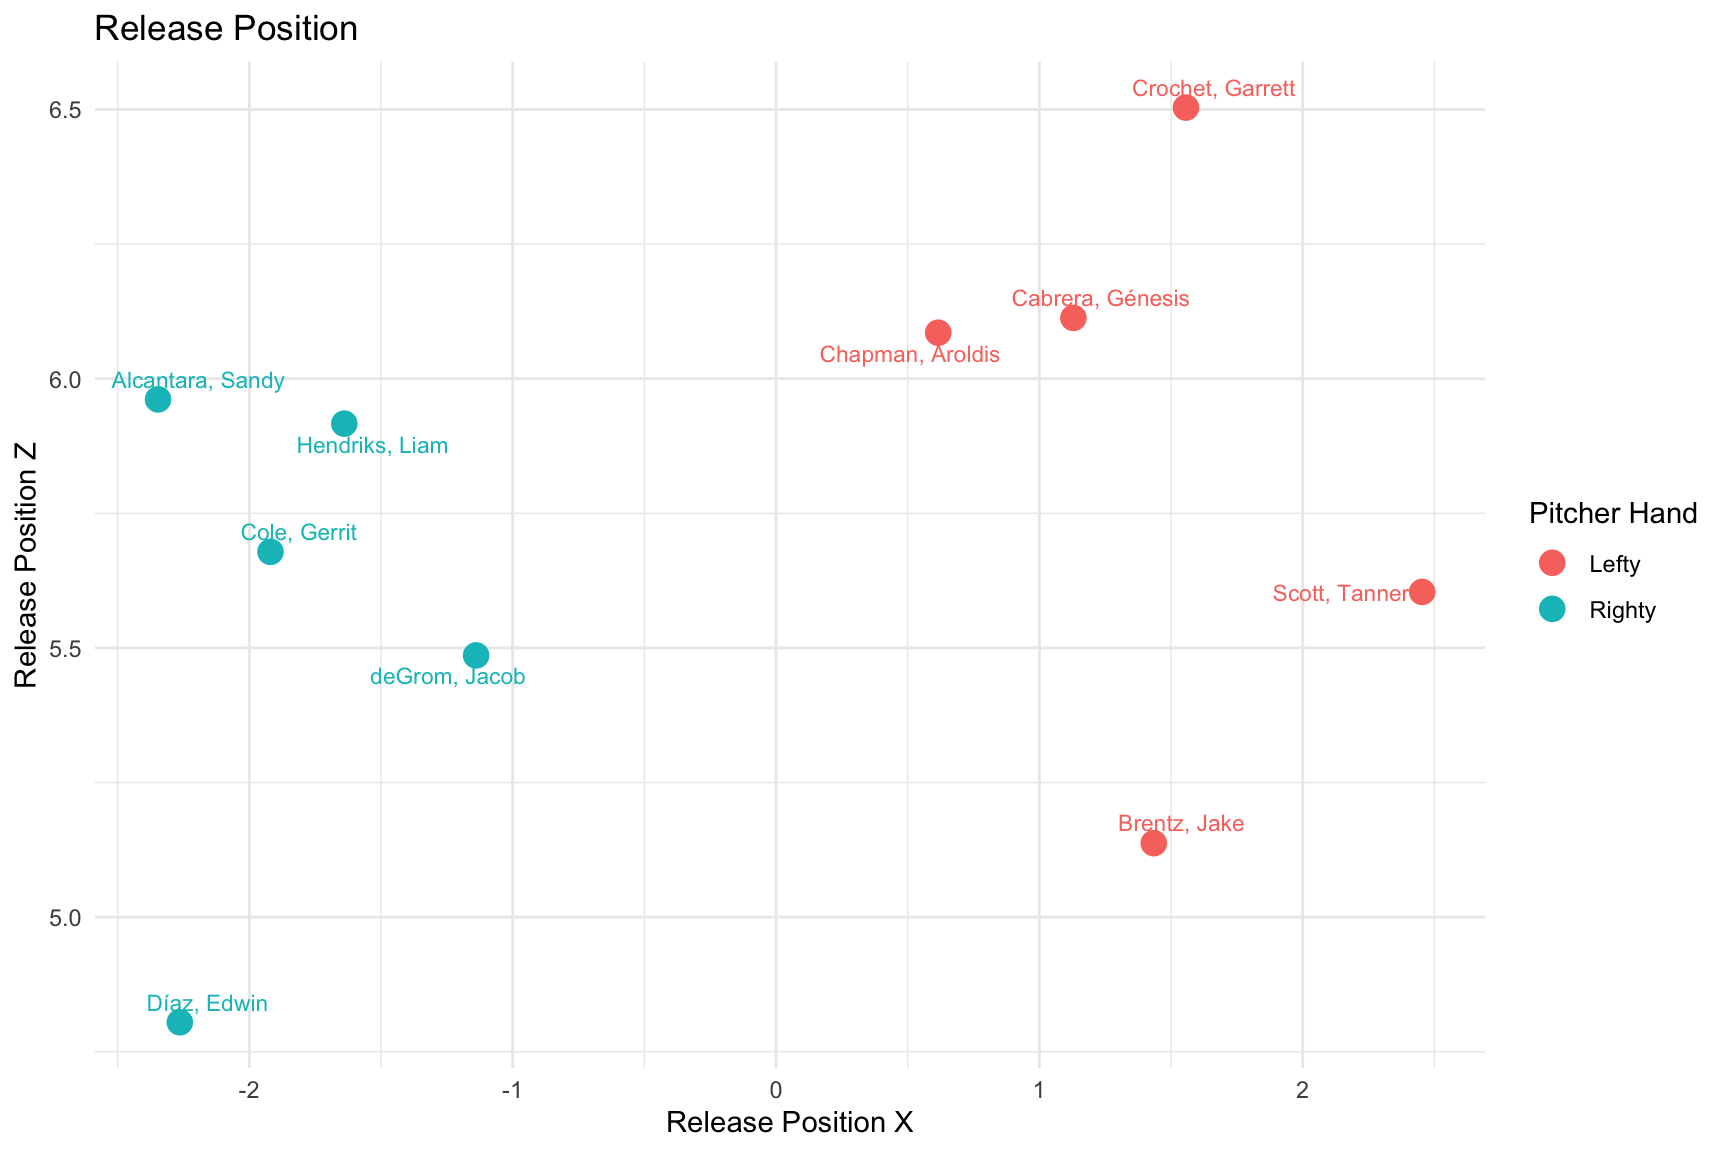
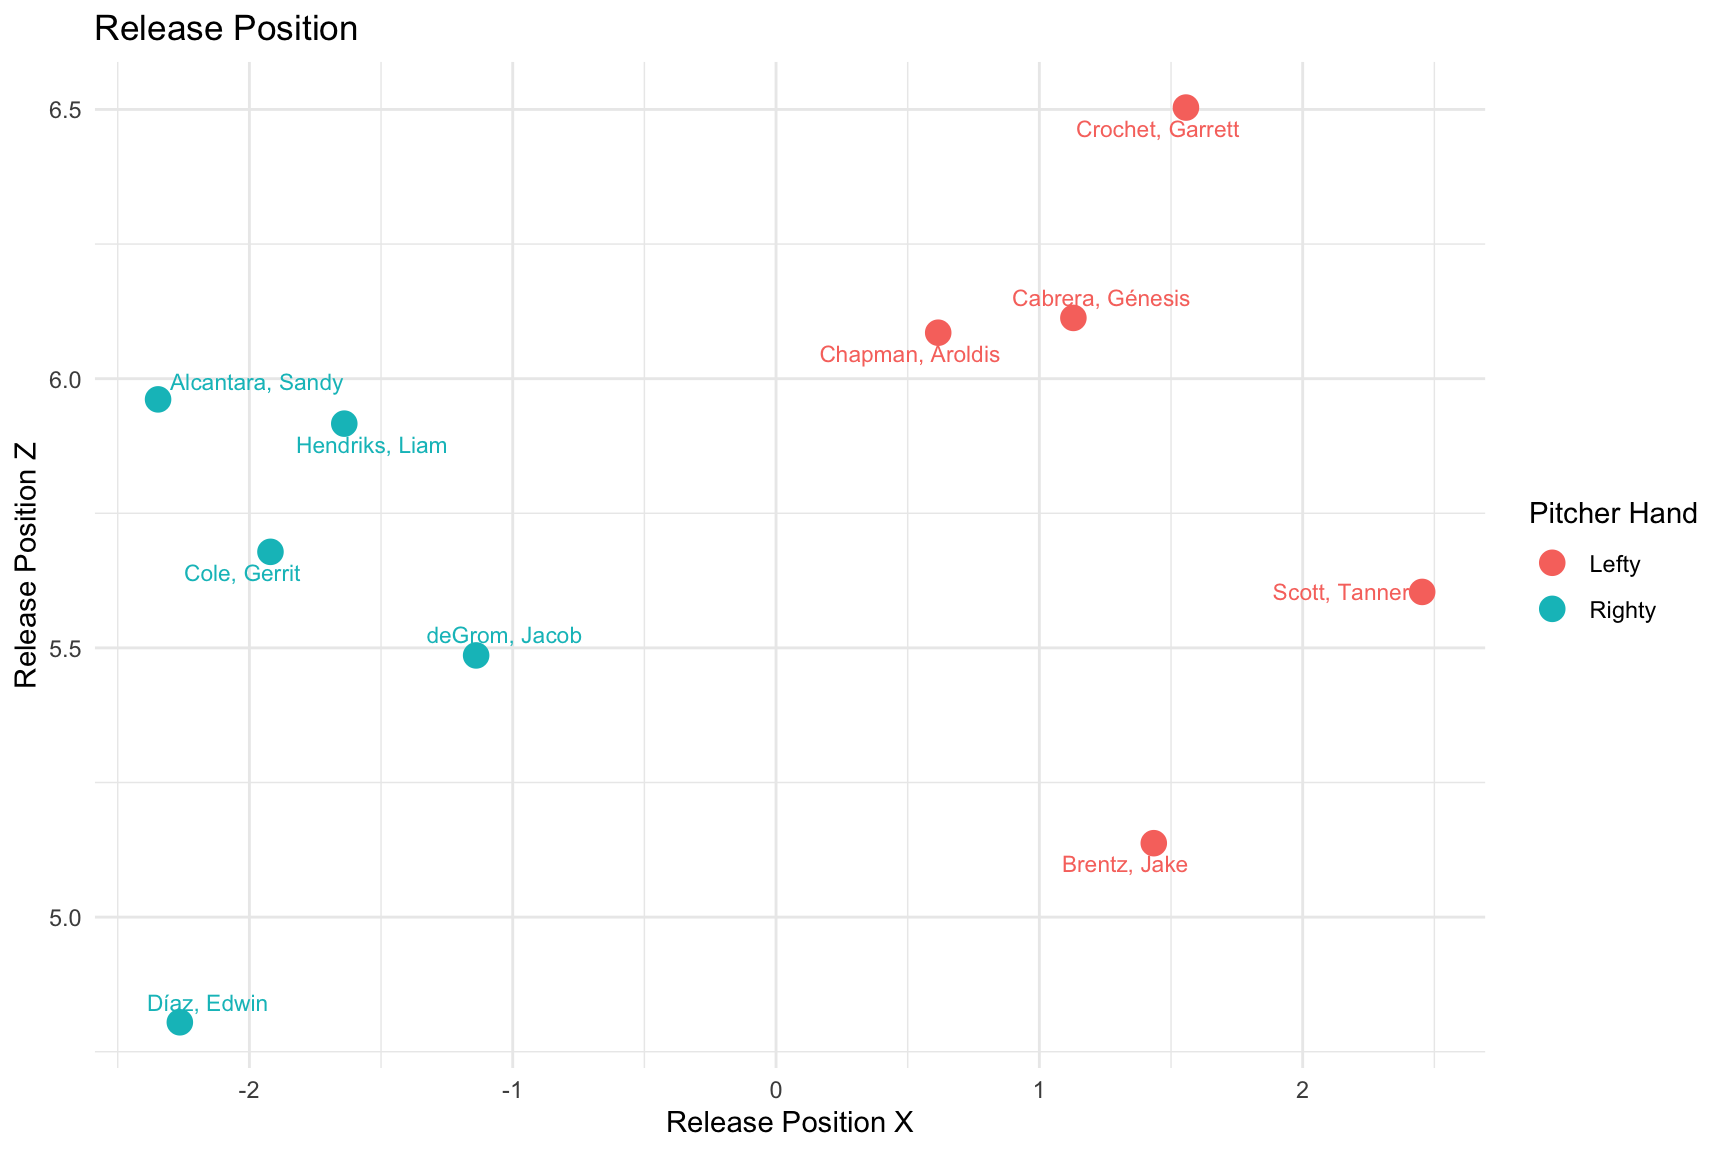
Update personal baseball analytics website

diff --git a/docs/datastory.html b/docs/datastory.html
@@ -94,8 +94,8 @@ code span.wa { color: #5e5e5e; font-style: italic; } /* Warning */
 
 
   <!--  https://schema.org/Article -->
-  <meta property="article:published" itemprop="datePublished" content="2026-05-04"/>
-  <meta property="article:created" itemprop="dateCreated" content="2026-05-04"/>
+  <meta property="article:published" itemprop="datePublished" content="2026-08-14"/>
+  <meta property="article:created" itemprop="dateCreated" content="2026-08-14"/>
   <meta name="article:author" content="Mikey Myro"/>
 
   <!--  https://developers.facebook.com/docs/sharing/webmasters#markup -->
@@ -114,7 +114,7 @@ code span.wa { color: #5e5e5e; font-style: italic; } /* Warning */
   <!--radix_placeholder_rmarkdown_metadata-->
 
   <script type="text/json" id="radix-rmarkdown-metadata">
-  {"type":"list","attributes":{"names":{"type":"character","attributes":{},"value":["title","description","author","date","output"]}},"value":[{"type":"character","attributes":{},"value":["Baseball Data Story"]},{"type":"character","attributes":{},"value":["Do harder-throwing pitchers actually have better fastballs?\n"]},{"type":"list","attributes":{},"value":[{"type":"list","attributes":{"names":{"type":"character","attributes":{},"value":["name"]}},"value":[{"type":"character","attributes":{},"value":["Mikey Myro"]}]}]},{"type":"character","attributes":{},"value":["2026-05-04"]},{"type":"character","attributes":{},"value":["distill::distill_article"]}]}
+  {"type":"list","attributes":{"names":{"type":"character","attributes":{},"value":["title","description","author","date","output"]}},"value":[{"type":"character","attributes":{},"value":["Baseball Data Story"]},{"type":"character","attributes":{},"value":["Do harder-throwing pitchers actually have better fastballs?\n"]},{"type":"list","attributes":{},"value":[{"type":"list","attributes":{"names":{"type":"character","attributes":{},"value":["name"]}},"value":[{"type":"character","attributes":{},"value":["Mikey Myro"]}]}]},{"type":"character","attributes":{},"value":["2026-08-14"]},{"type":"character","attributes":{},"value":["distill::distill_article"]}]}
   </script>
   <!--/radix_placeholder_rmarkdown_metadata-->
   <!--radix_placeholder_navigation_in_header-->
@@ -2123,7 +2123,7 @@ code span.wa { color: #5e5e5e; font-style: italic; } /* Warning */
 <!--radix_placeholder_front_matter-->
 
 <script id="distill-front-matter" type="text/json">
-{"title":"Baseball Data Story","description":"Do harder-throwing pitchers actually have better fastballs?","authors":[{"author":"Mikey Myro","authorURL":"#","affiliation":"&nbsp;","affiliationURL":"#","orcidID":""}],"publishedDate":"2026-05-04T00:00:00.000-04:00","citationText":"Myro, 2026"}
+{"title":"Baseball Data Story","description":"Do harder-throwing pitchers actually have better fastballs?","authors":[{"author":"Mikey Myro","authorURL":"#","affiliation":"&nbsp;","affiliationURL":"#","orcidID":""}],"publishedDate":"2026-08-14T00:00:00.000-04:00","citationText":"Myro, 2026"}
 </script>
 
 <!--/radix_placeholder_front_matter-->
@@ -2157,7 +2157,7 @@ code span.wa { color: #5e5e5e; font-style: italic; } /* Warning */
 <div class="d-byline">
   Mikey Myro  
   
-<br/>2026-05-04
+<br/>2026-08-14
 </div>
 
 <div class="d-article">
@@ -2165,15 +2165,12 @@ code span.wa { color: #5e5e5e; font-style: italic; } /* Warning */
 <p>This project looks at the hardest throwing four-seam fastball pitchers in 2021. I compare the five hardest throwing right-handed pitchers and the five hardest throwing left-handed pitchers, only including pitchers who threw at least 400 four-seam fastballs.</p>
 <p>The main question is not just who throws the hardest, but how different fastballs can be effective in different ways. Velocity clearly matters because it gives hitters less time to react, but it is only one part of the story. Fastballs can succeed through velocity, spin, movement, extension, release position, command, deception, or some combination of all of them.</p>
 <p>This project shows that there is no single perfect fastball. Some pitchers win with pure velocity. Others win with extension, a unique release point, swing-and-miss ability, or the way their fastball fits with the rest of their arsenal. By looking at several different variables, this story shows how different hard fastballs are built.</p>
-<h2 id="load-data">Load Data</h2>
 <div class="layout-chunk" data-layout="l-body">
 
 </div>
-<h2 id="clean-data">Clean Data</h2>
 <div class="layout-chunk" data-layout="l-body">
 
 </div>
-<h2 id="create-pitcher-summary">Create Pitcher Summary</h2>
 <div class="layout-chunk" data-layout="l-body">
 
 </div>
@@ -2393,21 +2390,11 @@ code span.wa { color: #5e5e5e; font-style: italic; } /* Warning */
 <p>Edwin Díaz and Aroldis Chapman show how relievers can make fastballs play up through traits beyond velocity. Díaz had a down year overall with a 3.45 ERA, but his fastball profile is still unique because of his low release point and strong extension. Chapman also had a down year by his standards with a 3.36 ERA, but his fastball still generated whiffs because of his velocity, extension, and power profile.</p>
 <p>Gerrit Cole and Sandy Alcantara show how starting pitchers can use hard fastballs in different ways. Cole had a 3.23 ERA, a 12.1 K/9, and finished second in Cy Young voting, showing how velocity and swing-and-miss ability can support an ace-level season. Alcantara had a 3.19 ERA with a lower strikeout rate, but his height, extension, and durability gave his fastball a different type of effectiveness.</p>
 <p>Other pitchers in the group show why context matters. Jake Brentz and Génesis Cabrera had better fastball wOBA results than deGrom in this sample, but they were not better overall pitchers. Garrett Crochet, Tanner Scott, and Liam Hendriks also show different paths: Crochet later developed into one of the best starters in the world, Scott found more success in later years, and Hendriks had a very strong 2021 season with a 2.54 ERA and 14.3 K/9.</p>
-<h1 id="inference-analysis">Inference Analysis</h1>
-<div class="layout-chunk" data-layout="l-body">
-<p><img src="datastory_files/figure-html5/unnamed-chunk-14-1.png" width="624" /></p>
-<pre><code>[1] 0.097</code></pre>
-</div>
-<p><strong>Hypotheses:</strong><br />
-H0: There is no difference in whiff rate between harder and slower fastballs in this group.<br />
-HA: There is a difference in whiff rate between harder and slower fastballs in this group.</p>
-<p><strong>P-value:</strong> The p-value from the randomization test is shown above.</p>
-<p><strong>Conclusion:</strong> This test compares whiff rates between the harder-throwing and slower-throwing pitchers in this group. If the p-value is small, there is evidence that velocity is related to whiff rate. If the p-value is large, there is not strong evidence of a difference in whiff rate based only on velocity.</p>
 <h1 id="conclusion">Conclusion</h1>
 <p>The main takeaway from this project is that there is no single way to build an effective fastball. Velocity matters because it reduces reaction time, but it does not tell the whole story. Spin, movement, extension, release position, strike percentage, wOBA, and whiff percentage all show different parts of fastball quality.</p>
 <p>The most interesting part is that the best pitcher does not always have the best fastball by every metric. deGrom had a historic season, but other pitchers had better fastball results in specific areas. This proves that fastballs are different, and their effectiveness comes from how multiple traits work together.</p>
 <p>A great fastball is not just the fastest pitch. It is a pitch that uses its own combination of speed, movement, release, extension, command, and deception to make hitters uncomfortable.</p>
-<div class="sourceCode" id="cb2"><pre class="sourceCode r distill-force-highlighting-css"><code class="sourceCode r"></code></pre></div>
+<div class="sourceCode" id="cb1"><pre class="sourceCode r distill-force-highlighting-css"><code class="sourceCode r"></code></pre></div>
 <!--radix_placeholder_article_footer-->
 <!--/radix_placeholder_article_footer-->
 </div>

diff --git a/docs/pastdatavisualizations.html b/docs/pastdatavisualizations.html
@@ -114,7 +114,7 @@ code span.wa { color: #5e5e5e; font-style: italic; } /* Warning */
   <!--radix_placeholder_rmarkdown_metadata-->
 
   <script type="text/json" id="radix-rmarkdown-metadata">
-  {"type":"list","attributes":{"names":{"type":"character","attributes":{},"value":["title","description","author","date","output"]}},"value":[{"type":"character","attributes":{},"value":["Past Data Visualizations"]},{"type":"character","attributes":{},"value":["Some past visualizations I made in Math 230.\n"]},{"type":"list","attributes":{},"value":[{"type":"list","attributes":{"names":{"type":"character","attributes":{},"value":["name"]}},"value":[{"type":"character","attributes":{},"value":["Mikey Myro"]}]}]},{"type":"character","attributes":{},"value":["2026-05-04"]},{"type":"character","attributes":{},"value":["distill::distill_article"]}]}
+  {"type":"list","attributes":{"names":{"type":"character","attributes":{},"value":["title","description","author","date","output"]}},"value":[{"type":"character","attributes":{},"value":["Past Data Visualizations"]},{"type":"character","attributes":{},"value":["Some past visualizations I made in Math 230.\n"]},{"type":"list","attributes":{},"value":[{"type":"list","attributes":{"names":{"type":"character","attributes":{},"value":["name"]}},"value":[{"type":"character","attributes":{},"value":["Mikey Myro"]}]}]},{"type":"character","attributes":{},"value":["May 4,  2026"]},{"type":"character","attributes":{},"value":["distill::distill_article"]}]}
   </script>
   <!--/radix_placeholder_rmarkdown_metadata-->
   <!--radix_placeholder_navigation_in_header-->
@@ -2157,7 +2157,7 @@ code span.wa { color: #5e5e5e; font-style: italic; } /* Warning */
 <div class="d-byline">
   Mikey Myro  
   
-<br/>2026-05-04
+<br/>May 4, 2026
 </div>
 
 <div class="d-article">
